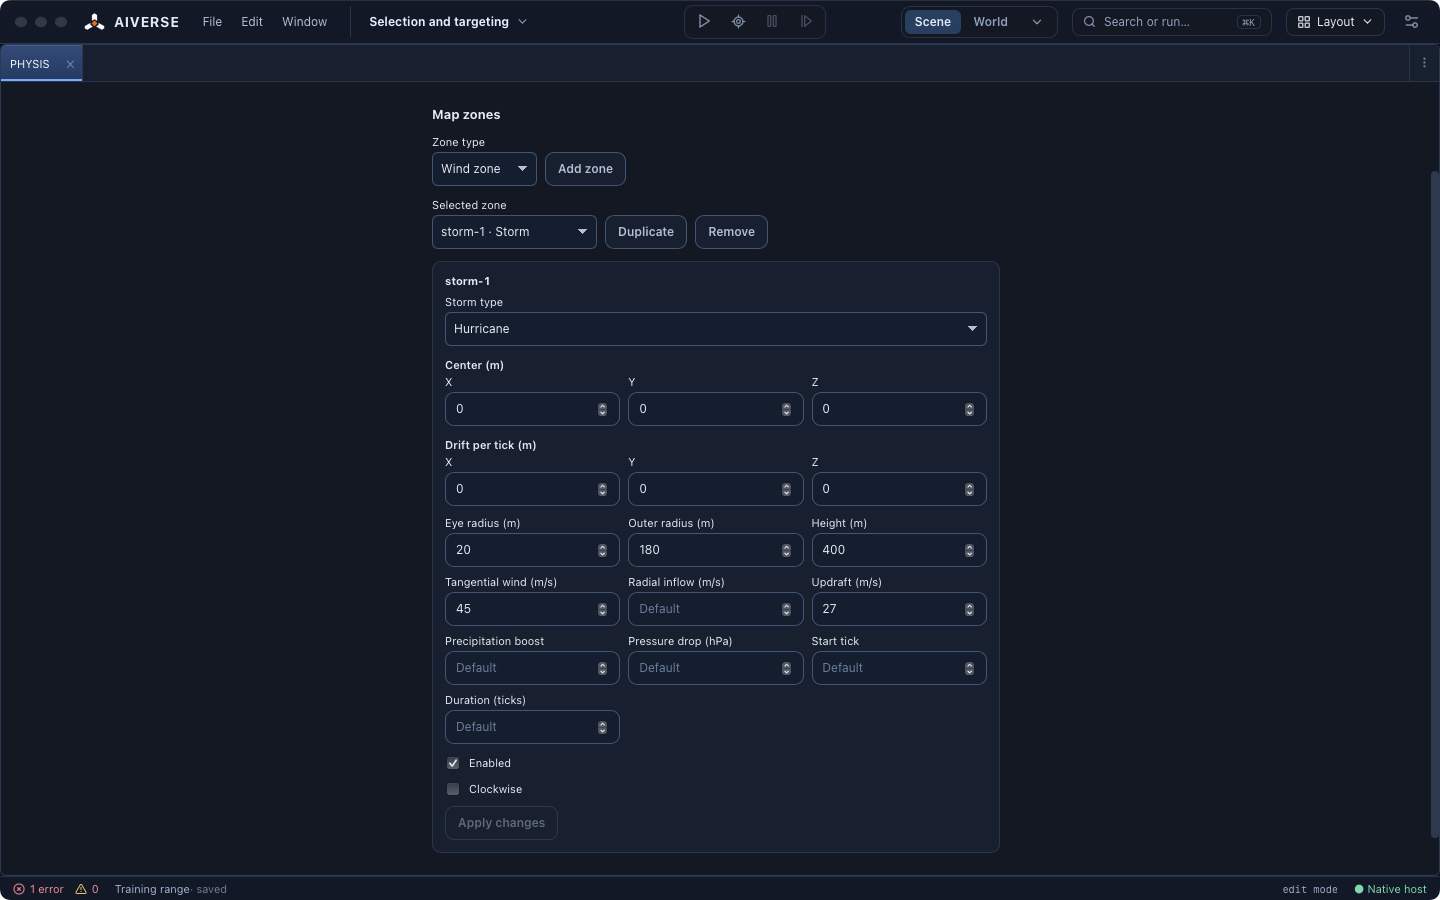
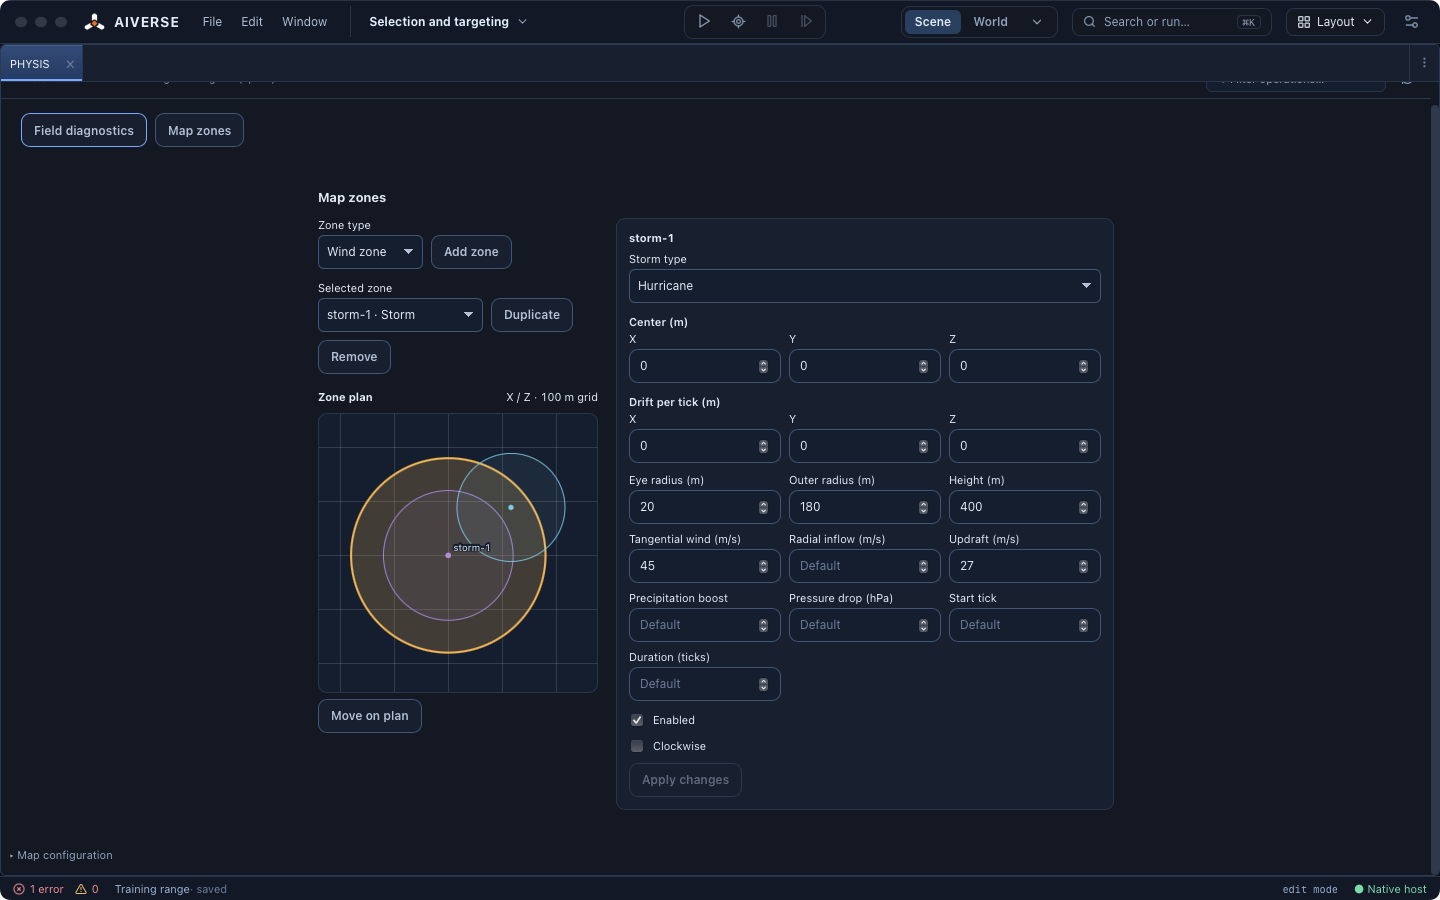
Record verified PHYSIS zone plan placement and final window capture

diff --git a/docs/studio-html5-parity.md b/docs/studio-html5-parity.md
@@ -163,7 +163,7 @@ Derived from actual AIVERSE_EDITOR_WINDOW registrations in apps/editor/windows. 
 | `models` | `apps/editor/windows/ModelWindow.cpp` | Model operations plus MaterialTechniquePanel and StrataAnalysisPanel. Verify preview of the original model without overrides. |
 | `ModelingWindow` | `apps/editor/windows/ModelingWindow.cpp` | ModelGraphPanel opens by default inside ToolPanel. Native modeling operations are also available. Verify navigation from the active model to Attachments. |
 | `overlays` | `apps/editor/windows/OverlaysWindow.cpp` | Shared template and asset operations; independent placement footprint and selectable ground-overlay map plan with GameOverlays geometry, forced anchors, authored colors and Hierarchy selection. Linked overlay_preview opens the HTML panel, shares selection and placement with it, handles partial updates and clears the preview on off. macOS Studio also renders resolved HUD text, entity health bars and screen shapes in the plan. Verified right-edge HUD resizing, selection changes, circle and rounded rectangle pixels. The panel renders the planar game minimap with project background, terrain, player objects and authored marks. Verified ring/disc samples, cursor ping movement and toggling off in macOS WKWebView. On macOS, pixel checks verified a rotated loose texture, a later primitive above it, a camera-facing icon and frame, and a tinted HUD region from a packed atlas. An unavailable texture was reported alongside a valid icon. The Footprint / 3D model switch renders the selected structure through GameView::drawGhost into an independent GPU target. macOS verified the allowed/blocked tint change, selecting another structure, return to footprint, unchanged map bytes and the complete composited model. Windows execution remains open. |
-| `physis` | `apps/editor/windows/PhysisWindow.cpp` | Mac verified the private diagnostic world, deterministic reset, +1/+60 ticks, 14 native fields, palette selection, wind/storm/gravity outlines, cell inspection and bounded views without Scene. Authored map operations remain available. Mac verified selected-cell wind and gravity vectors at cell elevation, tick matching, keyboard/pointer parity and missing cells. Mac verified local play-test ECS capture with native Game running beside PHYSIS, paired raster and six cell components on one tick, refresh after resume, stopped-source clearing and independent demo state. Mac verified native map creation, editing, duplication and removal of wind/storm/gravity zones, validation, Undo/Redo and reopen. Interactive gizmos, runtime field edits and nature preview remain open. |
+| `physis` | `apps/editor/windows/PhysisWindow.cpp` | Mac verified the private diagnostic world, deterministic reset, +1/+60 ticks, 14 native fields, palette selection, wind/storm/gravity outlines, cell inspection and bounded views without Scene. Authored map operations remain available. Mac verified selected-cell wind and gravity vectors at cell elevation, tick matching, keyboard/pointer parity and missing cells. Mac verified local play-test ECS capture with native Game running beside PHYSIS, paired raster and six cell components on one tick, refresh after resume, stopped-source clearing and independent demo state. Mac verified native map creation, editing, duplication and removal of wind/storm/gravity zones, validation, Undo/Redo and reopen. A panel-local footprint plan supports selection and one-click X/Z positioning; Mac verified preserved Y, one Undo/Redo and side-by-side layout. Multi-zone transforms, runtime field edits and nature preview remain open. |
 | `postfx` | `apps/editor/windows/PrismaWindow.cpp` | PostFxPanel edits game and map chains, effect parameters and quality tiers, estimates cost and applies presets. Verify per-camera diagnostics and local volume authoring. |
 | `studio_asset_audit` | `apps/editor/windows/ProjectAuditWindow.cpp` | Asset Audit panel (108) |
 | `project` | `apps/editor/windows/ProjectWindow.cpp` | Mac verified searchable map and rules groups, disk-only maps, create/edit, duplicate protection and Rules shortcut. Native map new/open/save/save-as and dirty guard remain covered by Stage 71. Project Hub and Windows have separate verification. |

diff --git a/docs/agent-handoffs/studio-project-catalog-initial.md b/docs/agent-handoffs/studio-project-catalog-initial.md
@@ -116,3 +116,5 @@ Local play-test source d5384d17a, verified with corrected fixture on 4-step nati
 PHYSIS map zones ac479c45c. apps/editor/core/PhysisOps.cpp exposes revision-checked physis_zone, rendered in apps/studio-web/src/panels/PhysisZonesPanel.tsx. Mac packaged Studio verified config creation, wind, gravity and storm editing, copy/delete, Undo/Redo, invalid storm rejection and saved map reopen. 40/40 native PHYSIS tests including real MCP, TypeScript/Vite and 299 web tests. Evidence docs/evidence/studio-physis-zone-authoring.json, studio-physis-zone-suite.log.txt and studio-project-catalog/physis-map-zones.png. Improve the wide layout after screenshot inspection, then address remaining interactions.
 
 PHYSIS plan 722c82070. apps/studio-web/src/panels/PhysisZonePlan.tsx and PhysisZonesPanel.tsx. Production build, typecheck and 299 web tests passed. First desktop harness timed out waiting for wind-1: its generic h4 selector now read the Zone plan heading. Screenshot inspection confirmed wind-1 was selected. Failed receipt docs/evidence/studio-physis-zone-plan.json. Scope QA heading to the properties form, repeat same packaged binary.
+
+Zone plan 722c82070 verified in packaged Mac Studio. The test selected a wind zone on its footprint, placed its center in X/Z, preserved Y=17 m and restored the exact previous center with one Undo. Redo, Save, selecting the storm and wide layout geometry passed. Updated screenshot docs/evidence/studio-project-catalog/physis-map-zones.png, receipt docs/evidence/studio-physis-map-plan.json. Next: multi-zone transforms, runtime field-edit workflows and independent nature preview. Windows and merged-tree quick gate remain pending.

diff --git a/docs/handoff/studio-html5/studio-only-editor.md b/docs/handoff/studio-html5/studio-only-editor.md
@@ -749,3 +749,5 @@ PHYSIS map zones ac479c45c. apps/editor/core/PhysisOps.cpp exposes revision-chec
 PHYSIS map zone plan: show native authored footprints and select or position a zone in X/Z, preserving Y. Verify map hit testing and one Undo.
 
 PHYSIS plan 722c82070. apps/studio-web/src/panels/PhysisZonePlan.tsx and PhysisZonesPanel.tsx. Production build, typecheck and 299 web tests passed. First desktop harness timed out waiting for wind-1: its generic h4 selector now read the Zone plan heading. Screenshot inspection confirmed wind-1 was selected. Failed receipt docs/evidence/studio-physis-zone-plan.json. Scope QA heading to the properties form, repeat same packaged binary.
+
+Zone plan 722c82070 verified in packaged Mac Studio. The test selected a wind zone on its footprint, placed its center in X/Z, preserved Y=17 m and restored the exact previous center with one Undo. Redo, Save, selecting the storm and wide layout geometry passed. Updated screenshot docs/evidence/studio-project-catalog/physis-map-zones.png, receipt docs/evidence/studio-physis-map-plan.json. Next: multi-zone transforms, runtime field-edit workflows and independent nature preview. Windows and merged-tree quick gate remain pending.
